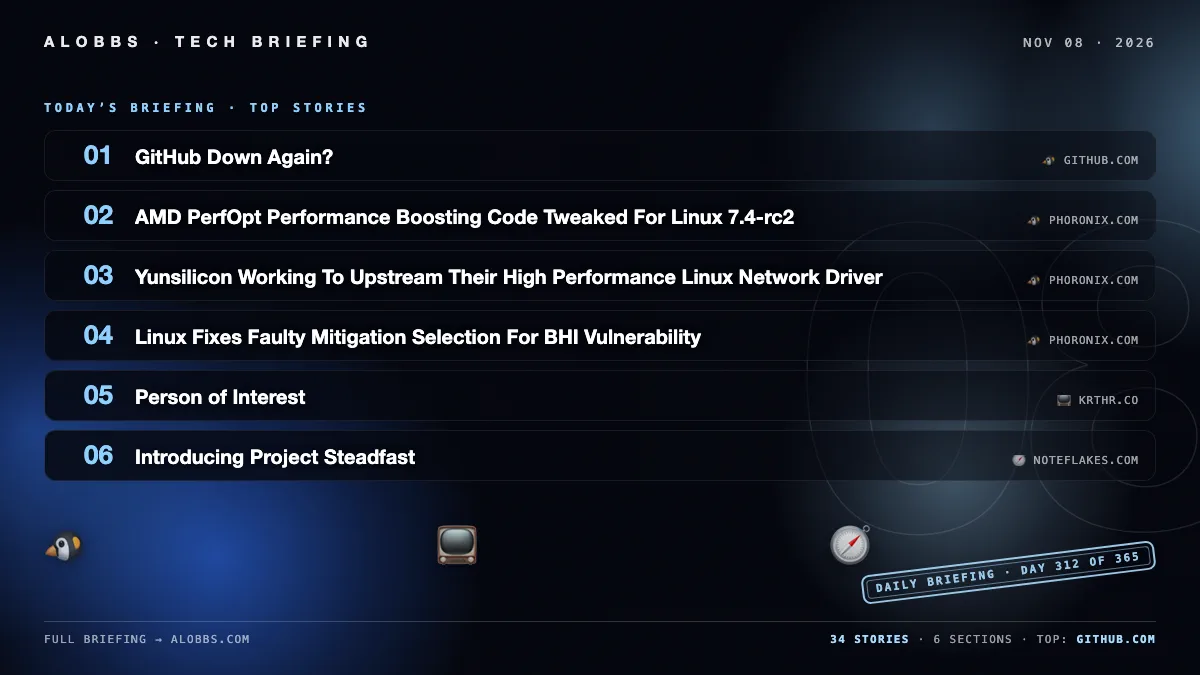
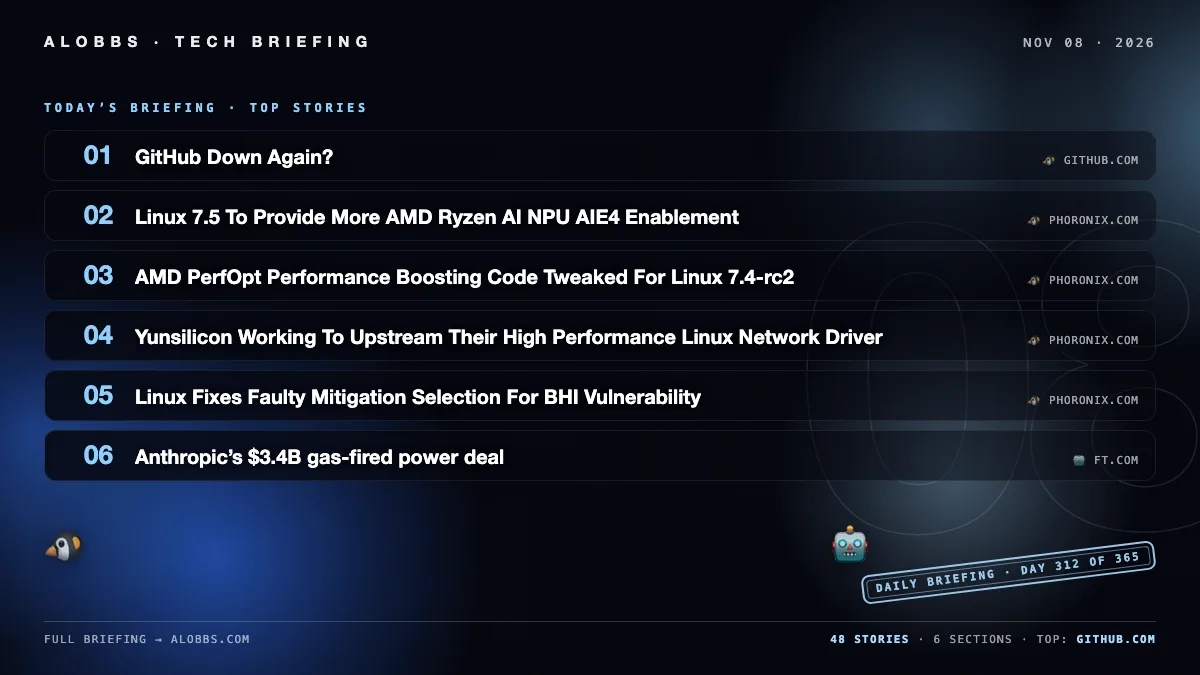
2026-11-08 briefing — 14 new (48 total)

diff --git a/content/post/2026-11-08.md b/content/post/2026-11-08.md
@@ -1,6 +1,6 @@
 ---
 title: "2026-11-08 Briefing"
-date: 2026-11-08 11:53:51.040853
+date: 2026-11-08 15:41:53.520792
 draft: false
 categories: [ "Briefing" ]
 params:
@@ -8,11 +8,17 @@ params:
 cover: "/images/briefings/2026-11-08.webp"
 ---
 
-China’s Inner Mongolia is racing to build AI data centers cheaply and without backlash, with Envision’s Ulanqab campus delivering 120MW in a year at about one-fifth U.S. costs. Democrats’ midterm wins have crypto bracing for probes into Trump ties. Beijing’s GenRobot AI raised $100M for robot-training data. Apple saved $2.7B routing $50B through Singapore, and an Anthropic-backed AI-safety PAC spent $63M, winning 10 of 17 races.
+Anthropic struck a $3.4B deal for 1.7GW of gas-fired power to fuel AI data centers, as SemiAnalysis detailed China’s fast, cheap Inner Mongolia AI hub. Democrats won the US midterms and vowed to probe Trump-family crypto ties; Anthropic-backed Public First spent $63M+, with 10 of 17 backed candidates winning. Apple saved $2.7B routing $50B through Singapore.
 
 <!--more-->
 
-## 🤖 AI & LLMs
+## 🤖 AI & Data Infrastructure
+
+### Anthropic’s $3.4B gas-fired power deal
+
+Anthropic has struck a $3.4 billion deal with OnePWR to buy 1.7GW of gas-fired generators, reportedly the largest such purchase by an AI lab, to supply power for its data-centre operations. The agreement highlights the growing energy demands of AI computing infrastructure.
+
+- [Anthropic buys 1.7GW gas-fired generators from OnePWR for $3.4B, largest AI lab buy](https://www.ft.com/content/41bf5c6a-9735-4f1a-a8e3-2bcccad58ba0) — *ft.com*
 
 ### Inside Inner Mongolia, China's fastest-growing AI data hub—built fast, cheap, no backlash
 
@@ -56,13 +62,81 @@ A 15-year-old developer has released Laplace’s Scissors, an MIT-licensed tool 
 
 - [LLM weight editing tool made by a 15-year-old](https://github.com/Miyamoto-Renya/LaplacesScissors) — *github.com*
 
-## 🐧 Linux & Development
+## 🏛 Tech Policy & Privacy
+
+### Crypto braces for reckoning as Democrats win midterms, vow to probe Trump family ties
+
+Democrats won the US midterms and have vowed to investigate the Trump family and its ties to the crypto industry. The crypto industry is bracing for a potential reckoning as those investigations move forward.
+
+- [Crypto braces for reckoning as Democrats win midterms, vow to probe Trump family ties](https://www.ft.com/content/f1b98a61-4103-447c-bb9a-3dccc0819f61) — *ft.com*
+
+### Apple saved $2.7B in taxes routing $50B via Singapore, topping Ireland's $2.6B
+
+Apple saved $2.7 billion in taxes this year by routing up to $50 billion in profits through Singapore, according to new filings cited by the Financial Times. Singapore overtook Ireland as the iPhone maker’s largest tax shelter, exceeding the $2.6 billion in tax savings Apple achieved via Ireland.
+
+- [Apple saved $2.7B in taxes routing $50B via Singapore, topping Ireland's $2.6B](https://www.ft.com/content/49453406-99f2-4f5b-8f5d-01dc8cac5ede) — *ft.com*
+
+### Wealthy AI-safety Signal-chat network became coalition that beat $100M super PAC in midterms
+
+A small, wealthy AI-safety network organized through Signal chats grew into a coalition that defeated the $100 million super PAC Leading the Future in the midterms, according to Politico. The article examines how the group reshaped an AI policy debate long dominated by those who measured progress in decades.
+
+- [Wealthy AI-safety Signal-chat network became coalition that beat $100M super PAC in midterms](https://www.politico.com/news/magazine/2026/11/06/ai-big-tech-2026-midterms-anthropic-openai-01152312) — *politico.com*
+
+### Anthropic-backed AI safety PAC Public First spent $63M+ in midterms; 10 of 17 backed candidates won
+
+Anthropic-backed AI safety super PAC Public First spent more than $63 million in the 2026 midterms, and 10 of the 17 congressional candidates it backed won their elections. The group, funded by Anthropic co-founder Dario Amodei and other AI safety advocates, supported candidates favoring stricter oversight of artificial intelligence.
+
+- [Anthropic-backed AI safety PAC Public First spent $63M+ in midterms; 10 of 17 backed candidates won](https://www.bloomberg.com/news/articles/2026-11-07/ai-safety-advocates-make-gains-after-110-million-midterm-fight) — *bloomberg.com*
+
+### Internet governance about to get its quadrennial stress test at ITU meeting
+
+The ITU is preparing for its quadrennial meeting, where 278 proposals on internet governance will be considered. Some fear the proposals could shift power over the internet toward governments, making the meeting a stress test for current governance models.
+
+- [Internet governance about to get its quadrennial stress test at ITU meeting](https://www.theregister.com/networks/2026/11/08/internet-governance-about-to-get-its-quadrennial-stress-test-at-itu-meeting/5308031) — *theregister.com*
+
+### Microsoft Removes PC-to-PC Migration from Windows 11, Pushes Users to OneDrive
+
+Microsoft has removed the PC-to-PC Migration feature from Windows 11 through the September optional update KB5124010 and the October 13, 2026 Patch Tuesday update KB5127648. Microsoft’s support page now redirects users to OneDrive-based Windows Backup, and the company has not explained why the local transfer option was discontinued.
+
+- [Microsoft Removes PC-to-PC Migration from Windows 11, Pushes Users to OneDrive](https://www.ghacks.net/2026/11/03/microsoft-removes-pc-to-pc-migration-from-windows-11-and-points-users-to-onedrive-based-windows-backup/) — *ghacks.net*
+
+### Consumer brain wave headsets threaten privacy
+
+Consumer brain wave headsets pose privacy risks, according to the article. The concern centers on the potential collection and misuse of users’ brainwave data.
+
+- [Consumer brain wave headsets threaten privacy](https://www.science.org/content/article/wearable-device-makers-are-harvesting-brain-data-train-ai-without-telling-users?referrer=https%3A%2F%2Fwww.google.com%2F) — *science.org*
+
+## 🐧 Linux & Open Source
+
+### systemd loves Rust
+
+systemd has merged support for writing components in Rust alongside C, initially limiting Rust to leaf binaries rather than core shared libraries. The project says integrating Rust into root components is currently impractical due to the lack of stable ABI support and the problems of static linking. Rust components will follow systemd’s design principles for uniform core API access, behavior, and build system.
+
+- [systemd loves Rust](https://amutable.com/blog/systemd-loves-rust) — *amutable.com*
+
+### NetBSD 11 desktop on a Raspberry Pi 4
+
+The article provides a guide for installing NetBSD 11 on a Raspberry Pi 4, using an arm64 image, Raspberry Pi UEFI firmware, and Balena Etcher to prepare the SD card. It covers boot configuration, initial root login and user setup, and fixing WiFi autoconfiguration by symlinking the missing Broadcom NVRAM firmware file.
+
+- [NetBSD 11 desktop on a Raspberry Pi 4](https://neongd.com/articles/netbsd11-rpi4.gmi) — *neongd.com*
+
+### Introducing Project Steadfast
+
+The article introduces Project Steadfast, an effort to enable Ruby metaprogramming by manipulating Ruby ASTs, similar to macro systems in Lisp or Elixir, as an alternative to `eval`-based code generation. It cites `eval`’s error-proneness, injection risks, and the complexity of the Papercraft compiler as motivations, and presents quote/unquote-style macro expansion as a way to simplify generating and mutating code at runtime.
+
+- [Introducing Project Steadfast](https://noteflakes.com/articles/2026-11-07-introducing-project-steadfast) — *noteflakes.com*
 
 ### Nspawn 3.0: A Docker-compatible Engine API for systemd-nspawn containers
 
 Nspawn 3.0 adds a Docker-compatible Engine API for systemd-nspawn containers, extending the earlier read-only API by serving it on the host as well. It includes IPv6 port publishing, compose fixes, image digest validation, apt/rpm packaging, dynamic host ports, platform-aware pulls, and exposes `/run/nspawn/api.sock` for tools using `DOCKER_HOST`. The socket is disabled by default and access is governed by existing `org.nspawn` polkit actions.
 
 - [Nspawn 3.0: A Docker-compatible Engine API for systemd-nspawn containers](https://blog.nspawn.org/posts/nspawn-3-0-a-docker-compatible-engine-api-for-systemd-nspawn-containers/) — *blog.nspawn.org*
+
+### Linux 7.5 To Provide More AMD Ryzen AI NPU AIE4 Enablement
+
+Linux 7.5 is set to include more enablement for AMD Ryzen AI NPU AIE4. Development has already progressed with multiple drm-misc-next pull requests targeting the next kernel version, including a third batch of feature patches this week.
+
+- [Linux 7.5 To Provide More AMD Ryzen AI NPU AIE4 Enablement](https://www.phoronix.com/news/Linux-7.5-RK3568-AMD-AIE4) — *phoronix.com*
 
 ### AMD PerfOpt Performance Boosting Code Tweaked For Linux 7.4-rc2
 
@@ -94,52 +168,25 @@ The article is titled “GitHub Down Again?” but its content is Linux kernel d
 
 - [GitHub Down Again?](https://github.com/torvalds/linux) — *github.com*
 
+### I'm Rewriting IBM SPSS Statistics in 100% Safe Rust, Alone
+
+The article introduces StatCraft, a free, open-source statistical software package being rewritten by a solo developer as a clean-room alternative to IBM SPSS entirely in 100% Safe Rust. It emphasizes crash immunity with no unsafe code or panics, SPSS-style syntax and undo support, and an agent-ready MCP bridge for AI integration.
+
+- [I'm Rewriting IBM SPSS Statistics in 100% Safe Rust, Alone](https://github.com/kobaltgit/StatCraft) — *github.com*
+
 ### ZapFast: A fast, native WhatsApp client in Rust and egui
 
 ZapFast is a native WhatsApp desktop client for Linux, macOS, and Windows built in Rust with egui and fastframe. It links to a phone as a companion device without a browser engine, and in a Linux test opened in under a second while using about 200 MB of idle RAM compared with 1.13 GB for WhatsApp Web. The app supports multiple languages and features including messages, media playback, encrypted local chat history, multiple numbers, and desktop notifications.
 
 - [ZapFast: A fast, native WhatsApp client in Rust and egui](https://github.com/crmne/zapfast) — *github.com*
 
-## 🏛 Tech Policy & Privacy
+## 🛠 Software & Hardware Hacking
 
-### Crypto braces for reckoning as Democrats win midterms, vow to probe Trump family ties
+### Accidentally committed ad-hoc logs reveal developer comprehension
 
-Democrats won the US midterms and have vowed to investigate the Trump family and its ties to the crypto industry. The crypto industry is bracing for a potential reckoning as those investigations move forward.
+The article could not be summarized because the provided content consists solely of a browser error message saying JavaScript is disabled and required site elements could not load. No actual reporting or details about accidentally committed ad-hoc logs or developer comprehension were included.
 
-- [Crypto braces for reckoning as Democrats win midterms, vow to probe Trump family ties](https://www.ft.com/content/f1b98a61-4103-447c-bb9a-3dccc0819f61) — *ft.com*
-
-### Apple saved $2.7B in taxes routing $50B via Singapore, topping Ireland's $2.6B
-
-Apple saved $2.7 billion in taxes this year by routing up to $50 billion in profits through Singapore, according to new filings cited by the Financial Times. Singapore overtook Ireland as the iPhone maker’s largest tax shelter, exceeding the $2.6 billion in tax savings Apple achieved via Ireland.
-
-- [Apple saved $2.7B in taxes routing $50B via Singapore, topping Ireland's $2.6B](https://www.ft.com/content/49453406-99f2-4f5b-8f5d-01dc8cac5ede) — *ft.com*
-
-### AI Safety PAC's Midterm Election Spending
-
-Anthropic-backed AI safety super PAC Public First spent more than $63 million in the 2026 midterms, and 10 of the 17 congressional candidates it backed won; it was funded by Anthropic co-founder Dario Amodei and other AI safety advocates supporting stricter AI oversight. A small, wealthy AI-safety network organized through Signal chats also grew into a coalition that defeated the $100 million super PAC Leading the Future, reshaping an AI policy debate long dominated by other interests.
-
-- [Anthropic-backed AI safety PAC Public First spent $63M+ in midterms; 10 of 17 backed candidates won](https://www.bloomberg.com/news/articles/2026-11-07/ai-safety-advocates-make-gains-after-110-million-midterm-fight) — *bloomberg.com*
-- [Wealthy AI-safety Signal-chat network became coalition that beat $100M super PAC in midterms](https://www.politico.com/news/magazine/2026/11/06/ai-big-tech-2026-midterms-anthropic-openai-01152312) — *politico.com*
-
-### Internet governance about to get its quadrennial stress test at ITU meeting
-
-The ITU is preparing for its quadrennial meeting, where 278 proposals on internet governance will be considered. Some fear the proposals could shift power over the internet toward governments, making the meeting a stress test for current governance models.
-
-- [Internet governance about to get its quadrennial stress test at ITU meeting](https://www.theregister.com/networks/2026/11/08/internet-governance-about-to-get-its-quadrennial-stress-test-at-itu-meeting/5308031) — *theregister.com*
-
-### Microsoft Removes PC-to-PC Migration from Windows 11, Pushes Users to OneDrive
-
-Microsoft has removed the PC-to-PC Migration feature from Windows 11 through the September optional update KB5124010 and the October 13, 2026 Patch Tuesday update KB5127648. Microsoft’s support page now redirects users to OneDrive-based Windows Backup, and the company has not explained why the local transfer option was discontinued.
-
-- [Microsoft Removes PC-to-PC Migration from Windows 11, Pushes Users to OneDrive](https://www.ghacks.net/2026/11/03/microsoft-removes-pc-to-pc-migration-from-windows-11-and-points-users-to-onedrive-based-windows-backup/) — *ghacks.net*
-
-### Consumer brain wave headsets threaten privacy
-
-Consumer brain wave headsets pose privacy risks, according to the article. The concern centers on the potential collection and misuse of users’ brainwave data.
-
-- [Consumer brain wave headsets threaten privacy](https://www.science.org/content/article/wearable-device-makers-are-harvesting-brain-data-train-ai-without-telling-users?referrer=https%3A%2F%2Fwww.google.com%2F) — *science.org*
-
-## 🕹 Retro Tech & Hacks
+- [Accidentally committed ad-hoc logs reveal developer comprehension](https://link.springer.com/article/10.1007/s10664-026-10988-z) — *link.springer.com*
 
 ### Hacking the T-Mobile Sidekick, 20 Years Too Late
 
@@ -153,59 +200,17 @@ A browser demo runs the classic shooter Doom on an IBM mainframe, rendering it i
 
 - [Doom delivers five minutes of terminal violence on an IBM mainframe](https://www.theregister.com/offbeat/2026/11/08/doom-delivers-five-minutes-of-terminal-violence-on-an-ibm-mainframe/5308092) — *theregister.com*
 
-### Kirlian Photography: Building Your Own Equipment
+### RAM-Altman: a bash script that emails Sam Altman about your unused RAM
 
-Kirlian photography is a high-voltage contact-print technique named after Semyon and Valentina Kirlian, who developed and studied electro-photography starting in 1939. The process places film on a metal plate, puts an object on top, and applies high voltage to record a corona discharge without needing a camera or lens. The article notes paranormal claims about Kirlian images but says the author has not observed such evidence and that most effects can be explained conventionally.
+A bash script called RAM-Altman emails Sam Altman when more than 10% of a user’s RAM is available, including real memory figures and rotating joke messages. It is a Linux RAM monitor run from cron, and it offers a dry-run mode that prints the email without sending it.
 
-- [Kirlian Photography: Building Your Own Equipment](https://imagesco.com/articles/kirlian/kirlian-photography.html) — *imagesco.com*
+- [RAM-Altman: a bash script that emails Sam Altman about your unused RAM](https://ram-altman.lol/) — *ram-altman.lol*
 
-### Usenet's Back, Baby (this time, the search works)
+### JIT bitmap text rendering for microcontrollers
 
-A new service called Usenet-Rewind by Erie Data Systems makes it easier to search the vast Usenet archive, offering significant potential for researchers. The article notes that Google stopped adding new Usenet posts to Google Groups in 2024 and had already made its archive difficult to search. It also recalls that many Usenet users once assumed their posts were ephemeral, a belief proven wrong.
+Raph Levien presents a JIT technique for fast bitmap text rendering on microcontrollers, developed for his vic-2350 project on the RP2350. The method generates optimized code on the fly to render strings, supporting proportional spacing and kerning within the tight performance constraints of a race-the-beam renderer.
 
-- [Usenet's Back, Baby (this time, the search works)](https://tedium.co/2026/09/14/usenet-rewind-archive-revival-website/) — *tedium.co*
-
-## 📺 Sports & Media
-
-### How to Watch NFL Games Free
-
-Two NFL Week 9 games are scheduled for Sunday, November 8, 2026: the Patriots host the Packers at 4:25 p.m. ET, and the Chiefs host the Jets at 1:00 p.m. ET. Both games can be streamed free in the UK via Channel 5/5Action and Channel 5 Sport YouTube, and in Australia via 7plus. Viewers outside those regions can use a VPN connected to the broadcaster’s country to access the official streams.
-
-- [How to Watch New England Patriots vs Green Bay Packers for Free (November 8, 2026)](https://cybernews.com/stream-online/how-to-watch-new-england-patriots-vs-green-bay-packers-for-free-november-8-2026/) — *cybernews.com*
-- [How to Watch Kansas City Chiefs vs New York Jets for Free (November 8, 2026)](https://cybernews.com/stream-online/how-to-watch-kansas-city-chiefs-vs-new-york-jets-for-free-november-8-2026/) — *cybernews.com*
-
-### Watch NASCAR and F1 Online
-
-Two major motorsport events take place Sunday, Nov. 8: NASCAR’s Cup Series Championship Race at Homestead-Miami Speedway at 3 p.m. ET on NBC/Peacock, and F1’s São Paulo Grand Prix at Interlagos at 12 p.m. ET, broadcast in the U.S. on Apple TV and in the UK on Sky Sports/NOW. International viewing varies by market—including TSN in Canada and Premier Sports in the UK/Ireland for NASCAR and ThreeNow in New Zealand for free—and travelers can use a VPN to access eligible home streaming services, subject to platform terms.
-
-- [How to watch NASCAR Championship 4 online from anywhere](https://cybernews.com/stream-online/how-to-watch-nascar-championship-4-online-11-08/) — *cybernews.com*
-- [How to watch F1 Brazilian GP online from anywhere](https://cybernews.com/stream-online/how-to-watch-f1-brazilian-gp-online-from-anywhere-11-08/) — *cybernews.com*
-
-### Person of Interest
-
-The author describes binge-watching *Person of Interest* and finding it more relevant today than when it aired 15 years ago. The show evokes memories of early-2010s internet culture, including online forums, SOPA/PIPA, and Megaupload, and makes the fictional Machine feel closer to present reality. Despite its age, the author finds the series has aged remarkably well and stirs nostalgia.
-
-- [Person of Interest](https://krthr.co/person-of-interest/) — *krthr.co*
-
-## 🧭 Projects & Perspectives
-
-### Introducing Project Steadfast
-
-The article introduces Project Steadfast, an effort to enable Ruby metaprogramming by manipulating Ruby ASTs, similar to macro systems in Lisp or Elixir, as an alternative to `eval`-based code generation. It cites `eval`’s error-proneness, injection risks, and the complexity of the Papercraft compiler as motivations, and presents quote/unquote-style macro expansion as a way to simplify generating and mutating code at runtime.
-
-- [Introducing Project Steadfast](https://noteflakes.com/articles/2026-11-07-introducing-project-steadfast) — *noteflakes.com*
-
-### Petered (what happens after the Peter Principle)
-
-The article extends the Peter Principle by arguing that people promoted to their level of incompetence face career pressure and may take on high-risk or morally dubious work, or sabotage superiors, to protect or advance their careers. It connects this to “real imposters” who use obscurity and busyness to hide incompetence, and suggests that the focus on imposter syndrome may individualize systemic harm and distract from actual imposters.
-
-- [Petered (what happens after the Peter Principle)](https://aworkinglibrary.com/writing/petered) — *aworkinglibrary.com*
-
-### I'm Rewriting IBM SPSS Statistics in 100% Safe Rust, Alone
-
-The article introduces StatCraft, a free, open-source statistical software package being rewritten by a solo developer as a clean-room alternative to IBM SPSS entirely in 100% Safe Rust. It emphasizes crash immunity with no unsafe code or panics, SPSS-style syntax and undo support, and an agent-ready MCP bridge for AI integration.
-
-- [I'm Rewriting IBM SPSS Statistics in 100% Safe Rust, Alone](https://github.com/kobaltgit/StatCraft) — *github.com*
+- [JIT bitmap text rendering for microcontrollers](https://linebender.org/blog/jit-bitmap-text/) — *linebender.org*
 
 ### WaveDudeNext 2D Wave Simulator
 
@@ -213,11 +218,11 @@ WaveDude Next is a Windows-based 2D wave simulator for optics where users place 
 
 - [WaveDudeNext 2D Wave Simulator](https://github.com/graealex/WaveDudeNext) — *github.com*
 
-### My parents chose to die together and I was left to grieve alone
+### Kirlian Photography: Building Your Own Equipment
 
-In June 2024, Dutch couple Jan and Els, both in their 70s, legally ended their lives together through duo-euthanasia at a hospice after Jan suffered chronic pain and Els had dementia. Their only son, Bas, drove them to the appointment and, while supporting their decision, had tried to persuade them to delay it; he later described the emotional burden and profound loneliness that followed.
+Kirlian photography is a high-voltage contact-print technique named after Semyon and Valentina Kirlian, who developed and studied electro-photography starting in 1939. The process places film on a metal plate, puts an object on top, and applies high voltage to record a corona discharge without needing a camera or lens. The article notes paranormal claims about Kirlian images but says the author has not observed such evidence and that most effects can be explained conventionally.
 
-- [My parents chose to die together and I was left to grieve alone](https://www.bbc.com/news/articles/c81dwllzv113o) — *bbc.com*
+- [Kirlian Photography: Building Your Own Equipment](https://imagesco.com/articles/kirlian/kirlian-photography.html) — *imagesco.com*
 
 ### I Use Development-Driven Specs, Not Spec-Driven Development
 
@@ -225,8 +230,84 @@ Ensemble is a coding agent built from Bill Cox’s executable teaching book, now
 
 - [I Use Development-Driven Specs, Not Spec-Driven Development](https://github.com/waywardgeek/ensemble) — *github.com*
 
+## 📺 Streaming & Sports Guides
+
+### How to Watch New England Patriots vs Green Bay Packers for Free (November 8, 2026)
+
+The New England Patriots will host the Green Bay Packers in an NFL Week 9 game on Sunday, November 8, 2026, at 4:25 PM ET. Free broadcasts are available through Channel 5 and Channel 5 Sport YouTube in the UK and 7plus in Australia. The article says viewers outside those regions can use a VPN, such as NordVPN with its 30-day money-back guarantee, to connect to the UK or Australia and access the official streams.
+
+- [How to Watch New England Patriots vs Green Bay Packers for Free (November 8, 2026)](https://cybernews.com/stream-online/how-to-watch-new-england-patriots-vs-green-bay-packers-for-free-november-8-2026/) — *cybernews.com*
+
+### How to watch NASCAR Championship 4 online from anywhere
+
+The 2026 NASCAR Cup Series Championship Race will take place Sunday, Nov. 8, at 3 p.m. ET at Homestead-Miami Speedway, with NBC broadcasting in the US and Peacock offering streaming. Viewers in Canada can watch on TSN, in the UK and Ireland on Premier Sports, and in New Zealand free via ThreeNow. A VPN may help travelers access their eligible home streaming service from abroad.
+
+- [How to watch NASCAR Championship 4 online from anywhere](https://cybernews.com/stream-online/how-to-watch-nascar-championship-4-online-11-08/) — *cybernews.com*
+
+### How to Watch Kansas City Chiefs vs New York Jets for Free (November 8, 2026)
+
+The Kansas City Chiefs will host the New York Jets in Week 9 on Sunday, Nov. 8, 2026, at 1:00 p.m. ET at Arrowhead Stadium, with Kansas City at 5-2 and New York at 2-6. The game is available to stream free in the UK via 5Action and Channel 5 Sport YouTube and in Australia via 7plus, with a VPN connected to the broadcaster’s country allowing access from elsewhere.
+
+- [How to Watch Kansas City Chiefs vs New York Jets for Free (November 8, 2026)](https://cybernews.com/stream-online/how-to-watch-kansas-city-chiefs-vs-new-york-jets-for-free-november-8-2026/) — *cybernews.com*
+
+### How to watch F1 Brazilian GP online from anywhere
+
+The 2026 São Paulo Grand Prix takes place at Interlagos on Sunday, Nov. 8, at 2:00 p.m. local time (12:00 p.m. ET / 9:00 a.m. PT / 5:00 p.m. GMT). In the U.S., Apple TV is the exclusive broadcaster with full weekend coverage; UK viewers can watch live on Sky Sports/NOW and free highlights on Channel 4, with other markets using local services. Travelers outside their home country can use a VPN to access their usual eligible streaming service, subject to platform terms.
+
+- [How to watch F1 Brazilian GP online from anywhere](https://cybernews.com/stream-online/how-to-watch-f1-brazilian-gp-online-from-anywhere-11-08/) — *cybernews.com*
+
 ### ISponsorBlockTV: SponsorBlock client for all YouTube TV clients
 
 iSponsorBlockTV is a self-hosted application that connects to YouTube TV apps and automatically skips SponsorBlock-marked segments such as sponsors and intros, while also muting and pressing “Skip Ad” on YouTube ads. It supports many TV and console clients, including Apple TV, Samsung/LG/Android TV, Chromecast, Roku, Fire TV, Xbox, and PlayStation. The project warns that YouTube has changed screen ID code formats and is revoking existing codes, so users must re-pair their devices.
 
 - [ISponsorBlockTV: SponsorBlock client for all YouTube TV clients](https://github.com/dmunozv04/isponsorblocktv) — *github.com*
+
+## 📚 Culture & Personal Essays
+
+### A bit about email
+
+The article outlines the components a typical email passes through—sender’s MUA, MSA, sending and receiving MTAs, LDA/message store, and recipient’s MUA—noting they may not be separate machines. It describes SMTP as the main transfer protocol, including DNS MX lookups for recipient servers and retry with exponential backoff to avoid bounced mail during outages. It also notes that MSA and LDA roles became more complex as users began accessing email from their own computers.
+
+- [A bit about email](https://maurycyz.com/misc/email/) — *maurycyz.com*
+
+### A lack of male protagonists is making it harder to get young boys into books
+
+The provided page contains only a Cloudflare security verification message and no article text, so the news article cannot be summarized. The title suggests a discussion about a lack of male protagonists making it harder to get young boys into books, but no supporting details are available.
+
+- [A lack of male protagonists is making it harder to get young boys into books](https://www.theatlantic.com/culture/2026/11/middle-grade-reading-male-protagonists/689285/) — *theatlantic.com*
+
+### I will not be using LLMs in my coding
+
+Kristian Polso writes that after soul-searching he will actively avoid using LLMs or AI agents in his professional coding work. He cites dealbreakers including cognitive effects like “LLM brainfog,” overblown hype, reliance on third-party services, and verbose LLM output that can mask poor-quality code. While acknowledging his machine-learning experience, he argues the current enthusiasm around LLMs is hazardous to people’s work and health.
+
+- [I will not be using LLMs in my coding](https://www.polso.info/why-i-will-not-be-using-llms-coding) — *polso.info*
+
+### Person of Interest
+
+The author describes binge-watching *Person of Interest* and finding it more relevant today than when it aired 15 years ago. The show evokes memories of early-2010s internet culture, including online forums, SOPA/PIPA, and Megaupload, and makes the fictional Machine feel closer to present reality. Despite its age, the author finds the series has aged remarkably well and stirs nostalgia.
+
+- [Person of Interest](https://krthr.co/person-of-interest/) — *krthr.co*
+
+### Petered (what happens after the Peter Principle)
+
+The article extends the Peter Principle by arguing that people promoted to their level of incompetence face career pressure and may take on high-risk or morally dubious work, or sabotage superiors, to protect or advance their careers. It connects this to “real imposters” who use obscurity and busyness to hide incompetence, and suggests that the focus on imposter syndrome may individualize systemic harm and distract from actual imposters.
+
+- [Petered (what happens after the Peter Principle)](https://aworkinglibrary.com/writing/petered) — *aworkinglibrary.com*
+
+### Writing as a Thinking Tool
+
+The article argues that writing is not merely for storing information but a powerful thinking tool that externalizes cognition, enabling deeper understanding, memory, and creative connections through practices like mind maps, paper reviews, freewriting, and blogging. It compares writing to giving a Turing machine paper and pencil, and contends that LLMs, while knowledgeable, cannot replace personal intuition or make creative leaps from an individual’s half-formed ideas.
+
+- [Writing as a Thinking Tool](http://muratbuffalo.blogspot.com/2026/11/writing-as-thinking-tool.html) — *muratbuffalo.blogspot.com*
+
+### My parents chose to die together and I was left to grieve alone
+
+In June 2024, Dutch couple Jan and Els, both in their 70s, legally ended their lives together through duo-euthanasia at a hospice after Jan suffered chronic pain and Els had dementia. Their only son, Bas, drove them to the appointment and, while supporting their decision, had tried to persuade them to delay it; he later described the emotional burden and profound loneliness that followed.
+
+- [My parents chose to die together and I was left to grieve alone](https://www.bbc.com/news/articles/c81dwllzv113o) — *bbc.com*
+
+### Usenet's Back, Baby (this time, the search works)
+
+A new service called Usenet-Rewind by Erie Data Systems makes it easier to search the vast Usenet archive, offering significant potential for researchers. The article notes that Google stopped adding new Usenet posts to Google Groups in 2024 and had already made its archive difficult to search. It also recalls that many Usenet users once assumed their posts were ephemeral, a belief proven wrong.
+
+- [Usenet's Back, Baby (this time, the search works)](https://tedium.co/2026/09/14/usenet-rewind-archive-revival-website/) — *tedium.co*
